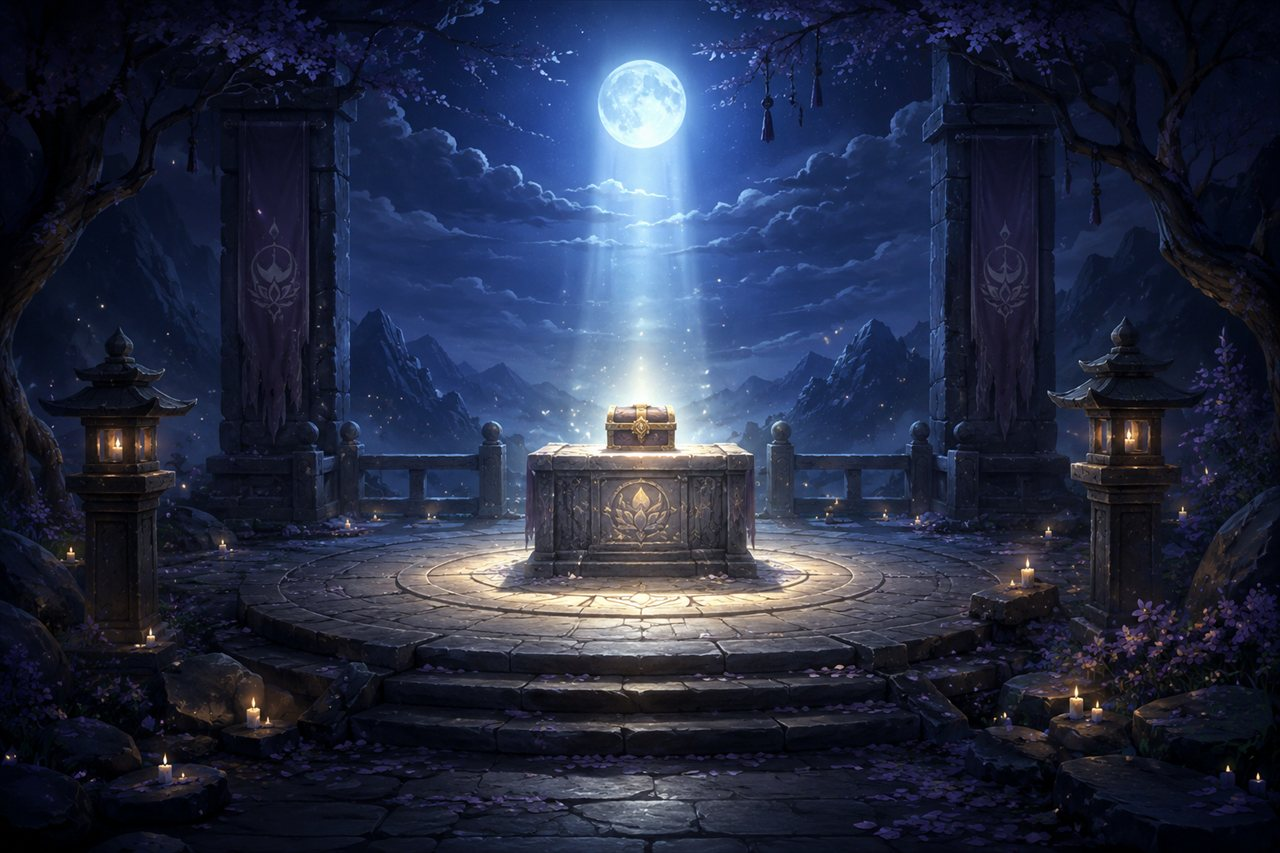
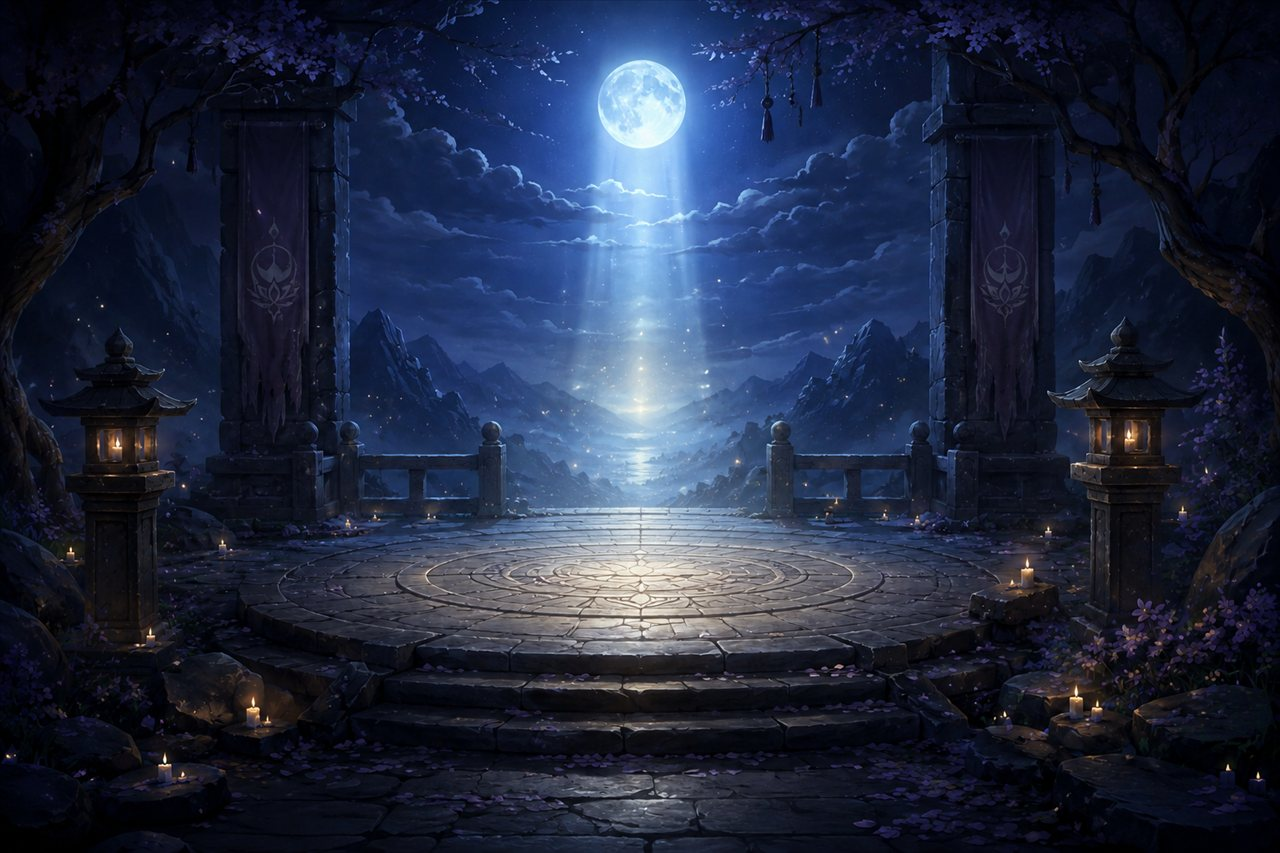
배경 이미지 교체

diff --git a/treasureNode.js b/treasureNode.js
@@ -341,12 +341,13 @@ function ensureTreasureStyles(){
         "url(\"assets/node_background/treasure.jpg\");background-size:cover,cover;background-position:center,center;background-repeat:no-repeat,no-repeat;}" +
     ".treasure-overlay.show{display:block;}" +
     ".treasure-stage{position:absolute;inset:0;}" +
-    ".treasure-hint{position:absolute;top:14cqh;left:50%;transform:translateX(-50%);z-index:2;" +
+    /* 상자가 제단 받침대 위가 아니라 배경 계단 앞 바닥(제단과 같은 높이)에 오도록 배치했으므로, 힌트 문구는 그 아래 계단 쪽에 배치한다 */
+    ".treasure-hint{position:absolute;top:84cqh;left:50%;transform:translateX(-50%);z-index:2;" +
       "font-size:1.9cqh;font-weight:900;color:#fdf6e3;text-shadow:0 .2cqh .4cqh rgba(0,0,0,.6);" +
       "background:rgba(30,20,10,.4);padding:.7cqh 1.6cqw;border-radius:1cqh;border:.14cqh solid rgba(200,170,110,.4);white-space:nowrap;}" +
-    /* 상자 맨 아래가 화면 아래에서부터 세로길이의 1/3 지점에 오도록 하단 기준으로 고정 배치 */
-    ".treasure-chest-btn{position:absolute;left:50%;top:66.666cqh;transform:translate(-50%,-100%);" +
-      "border:0;background:transparent;padding:0;cursor:pointer;width:min(68cqw,84cqh);}" +
+    /* 상자 맨 아래가 화면 세로길이의 70% 지점(위에서부터)에 오도록 배치 */
+    ".treasure-chest-btn{position:absolute;left:50%;top:70cqh;transform:translate(-50%,-100%);" +
+      "border:0;background:transparent;padding:0;cursor:pointer;width:min(90cqw,45cqh);}" +
     ".treasure-chest-btn:disabled{cursor:default;}" +
     ".treasure-chest-img{width:100%;height:auto;display:block;filter:drop-shadow(0 1cqh 2.2cqh rgba(0,0,0,.5));transition:transform .15s ease;}" +
     ".treasure-chest-btn:not(:disabled):hover .treasure-chest-img{transform:translateY(-.4cqh) scale(1.02);}" +
@@ -368,6 +369,6 @@ function ensureTreasureStyles(){
       "font:inherit;border:.2cqh solid rgba(178,140,80,.5);}" +
     ".treasure-relic-skip{background:rgba(255,251,240,.9);color:#6b4a20;}" +
     ".treasure-relic-take{background:linear-gradient(180deg,#7fbf8a,#4f9c62);color:#fff;border-color:#3f7c4e;}" +
-    "@media (max-width:900px){.treasure-chest-btn{width:min(46cqw,84cqh);}.treasure-relic-box{width:min(80cqw,60cqh);}}";
+    "@media (max-width:900px){.treasure-chest-btn{width:min(80cqw,45cqh);}.treasure-relic-box{width:min(80cqw,60cqh);}}";
   document.head.appendChild(style);
 }